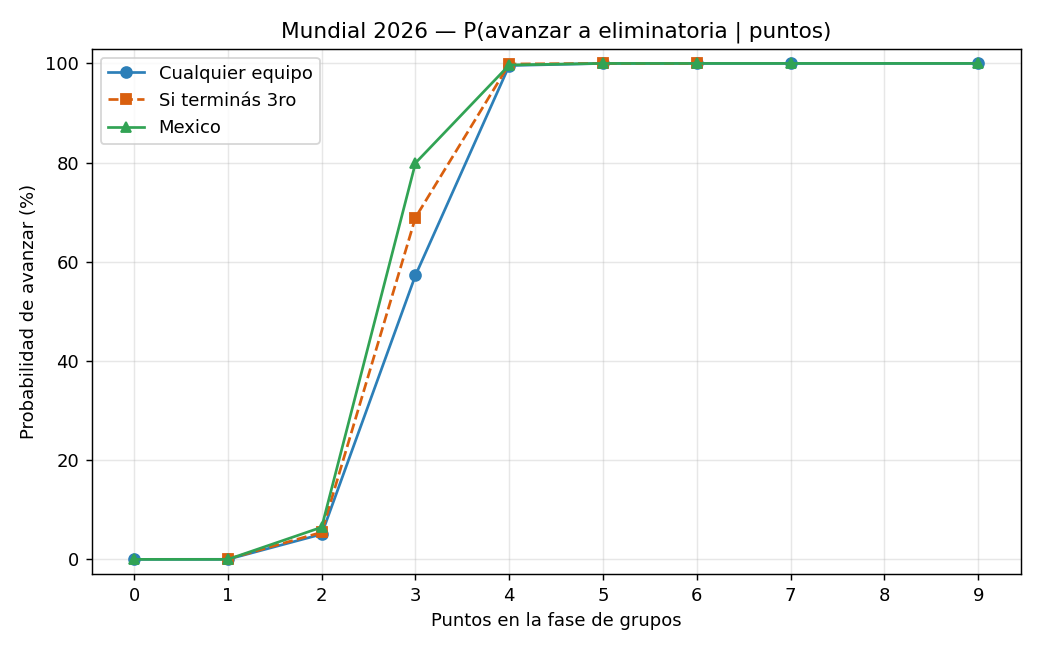
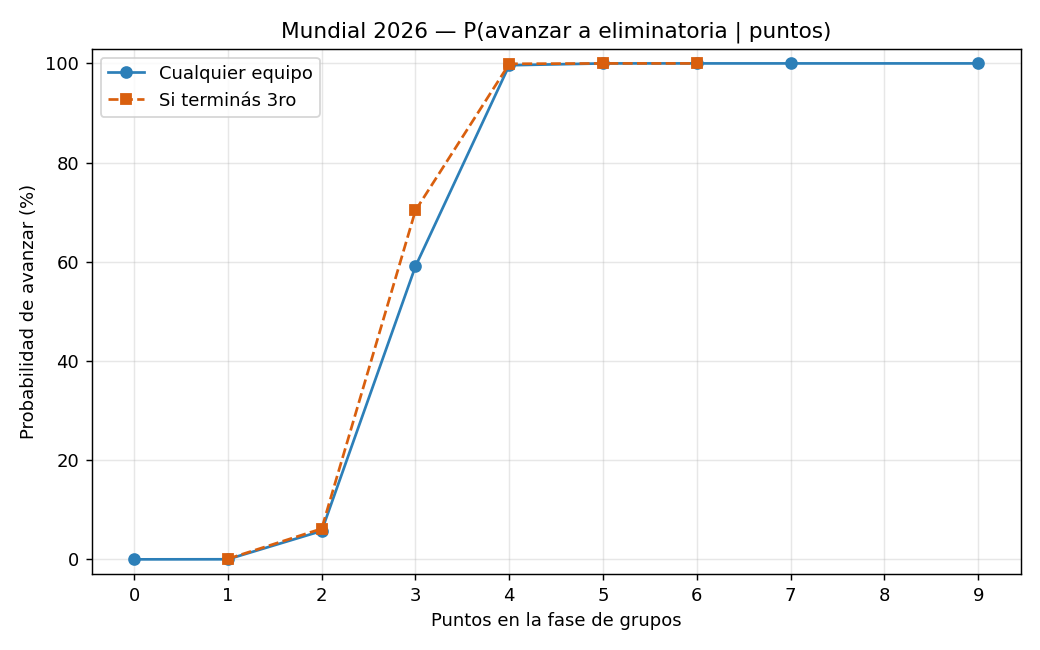
Desempate de grupos: head-to-head primero (reglamento FIFA 2026)
El sistema de desempate ahora sigue el orden oficial del Mundial 2026:
puntos -> head-to-head (pts/dg/gf entre empatados) -> dg general -> gf general
-> sorteo. Antes usaba diferencia de gol general como primer criterio (formato
viejo), lo cual era incorrecto para 2026.

- nueva rank_group() con mini-tabla head-to-head por bloque de empatados
- simulate_group registra cada marcador (necesario para el H2H)
- _play renombrado a _play_knockout (ya solo se usa en eliminatoria)
- el ranking de mejores terceros se mantiene (pts/dg/gf general, sin H2H,
  porque son de grupos distintos)

diff --git a/src/tournament.py b/src/tournament.py
@@ -45,23 +45,10 @@ class TeamState:
         return self.gf - self.ga
 
 
-def _play(t_h, t_a, sampler, calib, neutral, knockout, rng):
-    """Juega un partido, actualiza gf/ga de ambos y devuelve el ganador (KO)."""
+def _play_knockout(t_h, t_a, sampler, calib, neutral, rng):
+    """Juega un partido de eliminatoria y devuelve el ganador (resuelve empate)."""
     lam_h, lam_a = expected_goals(t_h.elo, t_a.elo, neutral, calib, calib["home_adv"])
     hs, as_ = sampler.sample(lam_h, lam_a)
-    t_h.gf += hs
-    t_h.ga += as_
-    t_a.gf += as_
-    t_a.ga += hs
-    if not knockout:
-        if hs > as_:
-            t_h.pts += 3
-        elif hs < as_:
-            t_a.pts += 3
-        else:
-            t_h.pts += 1
-            t_a.pts += 1
-        return None
     if hs > as_:
         return t_h
     if as_ > hs:
@@ -95,6 +82,57 @@ def _apply_known(by_name, home, away, hs, as_):
         ta.pts += 1
 
 
+def _h2h_stats(names, matches):
+    """Mini-tabla (pts, dg, gf) contando solo los partidos ENTRE 'names'."""
+    s = set(names)
+    stats = {n: [0, 0, 0] for n in names}  # [pts, dg, gf]
+    for home, away, hs, as_ in matches:
+        if home in s and away in s:
+            stats[home][1] += hs - as_
+            stats[home][2] += hs
+            stats[away][1] += as_ - hs
+            stats[away][2] += as_
+            if hs > as_:
+                stats[home][0] += 3
+            elif as_ > hs:
+                stats[away][0] += 3
+            else:
+                stats[home][0] += 1
+                stats[away][0] += 1
+    return stats
+
+
+def rank_group(teams, matches, rng):
+    """Ordena un grupo con los desempates oficiales FIFA 2026.
+
+    1) puntos  2-4) head-to-head entre empatados (pts, dg, gf)
+    5) dg general  6) gf general  7) sorteo (proxy de fair-play / ranking / lots).
+
+    El head-to-head se calcula dentro de cada bloque de equipos igualados en
+    puntos. La re-aplicacion recursiva de FIFA cuando un subconjunto se separa se
+    simplifica (caso de borde poco frecuente).
+    """
+    by_pts = {}
+    for t in teams:
+        by_pts.setdefault(t.pts, []).append(t.name)
+
+    h2h = {}
+    for pts, names in by_pts.items():
+        if len(names) > 1:  # solo hay empate que romper si son 2+ en ese puntaje
+            stats = _h2h_stats(names, matches)
+            h2h.update(stats)
+        else:
+            h2h[names[0]] = [0, 0, 0]
+
+    rnd = {t.name: rng.random() for t in teams}
+
+    def key(t):
+        hp, hgd, hgf = h2h[t.name]
+        return (t.pts, hp, hgd, hgf, t.gd, t.gf, rnd[t.name])
+
+    return sorted(teams, key=key, reverse=True)
+
+
 def simulate_group(teams, sampler, calib, rng, known=None):
     """Round-robin de un grupo de 4; devuelve la lista ordenada por posicion.
 
@@ -102,18 +140,21 @@ def simulate_group(teams, sampler, calib, rng, known=None):
     ya jugados. Esos no se simulan: se usa el marcador real.
     """
     by_name = {t.name: t for t in teams}
+    matches = []  # (home, away, hs, as_) -> necesario para el head-to-head
     for i in range(len(teams)):
         for j in range(i + 1, len(teams)):
             h, a = teams[i], teams[j]
             key = frozenset((h.name, a.name))
             if known and key in known:
-                _apply_known(by_name, *known[key])
+                home, away, hs, as_ = known[key]
             else:
-                _play(h, a, sampler, calib, _is_neutral(h, a), knockout=False, rng=rng)
-    # Orden: pts, dg, gf, desempate aleatorio.
-    rank_key = [(t.pts, t.gd, t.gf, rng.random()) for t in teams]
-    order = sorted(range(len(teams)), key=lambda k: rank_key[k], reverse=True)
-    return [teams[k] for k in order]
+                neutral = _is_neutral(h, a)
+                lam_h, lam_a = expected_goals(h.elo, a.elo, neutral, calib, calib["home_adv"])
+                hs, as_ = sampler.sample(lam_h, lam_a)
+                home, away = h.name, a.name
+            _apply_known(by_name, home, away, hs, as_)
+            matches.append((home, away, hs, as_))
+    return rank_group(teams, matches, rng)
 
 
 def _seed_score(t, place):
@@ -201,7 +242,7 @@ def simulate_tournament(team_defs, sampler, calib, rng, on_group_result=None,
             # si el anfitrion es 'a', ponerlo de local para la ventaja
             if a.name in HOSTS and h.name not in HOSTS:
                 h, a = a, h
-            w = _play(h, a, sampler, calib, neutral, knockout=True, rng=rng)
+            w = _play_knockout(h, a, sampler, calib, neutral, rng)
             winners.append(w)
         next_size = round_size // 2
         label = ROUND_NAMES.get(next_size)